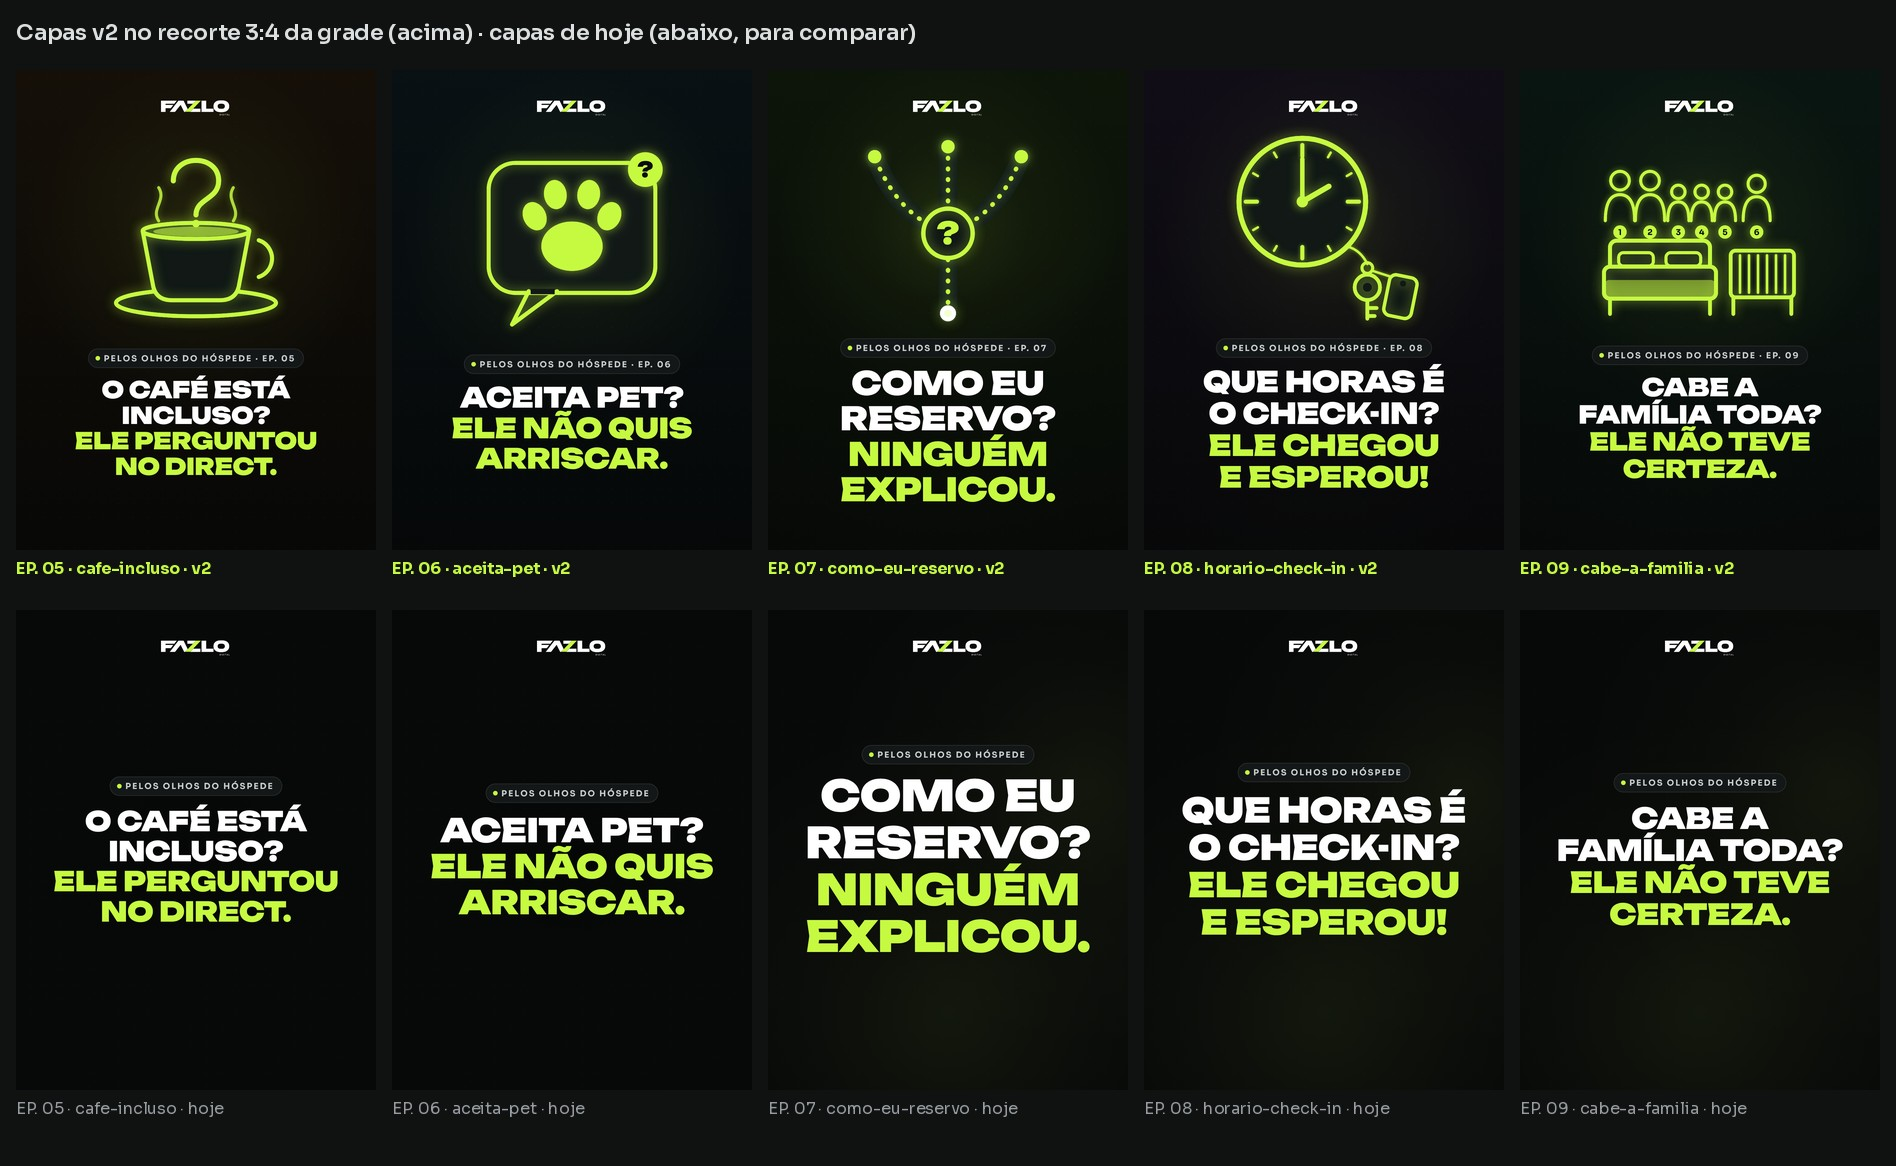
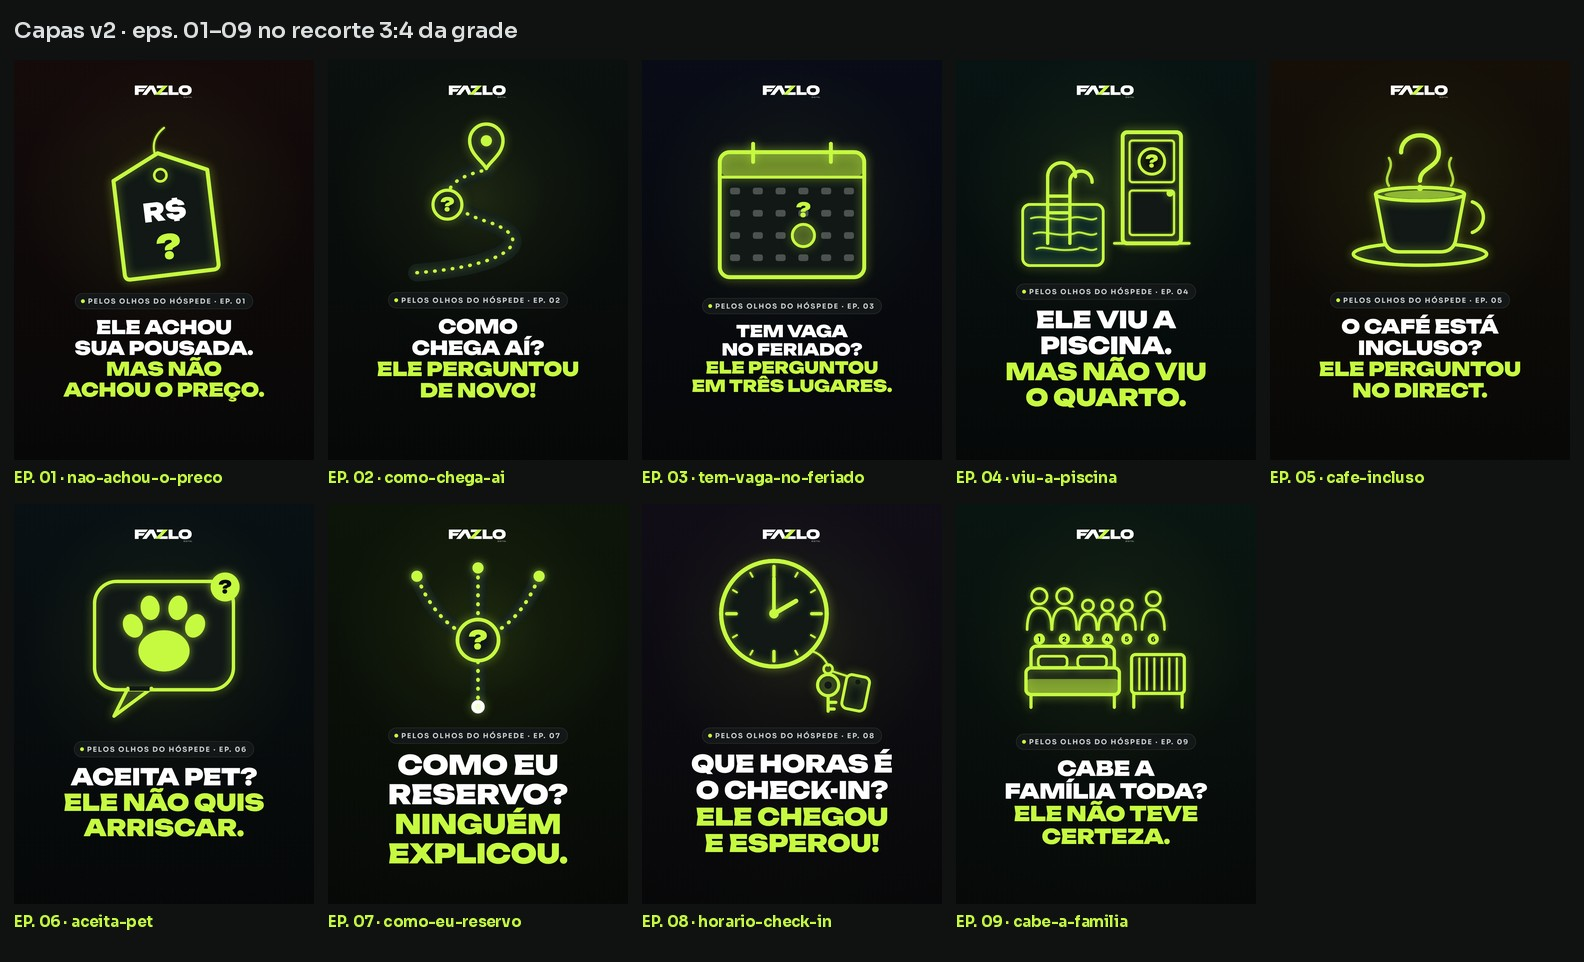
Capas v2 dos eps. 1 a 4 (preço, estrada, calendário, piscina) e folha com os 9 episódios
Claude-Session: https://claude.ai/code/session_016SrUqcRstJhcFcnU2LrZ3G

diff --git a/series/pelos-olhos-do-hospede/motor.js b/series/pelos-olhos-do-hospede/motor.js
@@ -721,6 +721,42 @@
       neon(c, P((q) => { q.moveTo(444, 412); q.lineTo(500, 430); }), { fill: null, lw: 7, glow: 10 });
       c.save(); c.translate(530, 486); c.rotate(0.2); neon(c, caixa(-42, -58, 84, 124, 20), { lw: 10 }); cheio(c, elipse(0, -36, 9, 9), '#111816'); c.restore();
     },
+    preco(c) {                                       // etiqueta de preço pendurada, com "R$ ?" no lugar do valor
+      neon(c, P((q) => { q.moveTo(300, 20); q.quadraticCurveTo(250, 60, 268, 118); }), { fill: null, lw: 7, glow: 10 });
+      c.save(); c.translate(300, 300); c.rotate(-0.12);
+      neon(c, P((q) => { q.moveTo(0, -190); q.lineTo(170, -110); q.lineTo(170, 230); q.quadraticCurveTo(170, 250, 150, 250); q.lineTo(-150, 250); q.quadraticCurveTo(-170, 250, -170, 230); q.lineTo(-170, -110); q.closePath(); }), { lw: 14 });
+      neon(c, elipse(0, -110, 22, 22), { fill: '#050606', lw: 9 });
+      letra(c, 'R$', 0, 20, 92, C.white); letra(c, '?', 0, 150, 120, C.lime);
+      c.restore();
+    },
+    estrada(c) {                                     // pino no fim de uma estrada sinuosa, com um "?" no caminho
+      const via = P((q) => { q.moveTo(80, 545); q.bezierCurveTo(420, 520, 520, 420, 330, 360); q.bezierCurveTo(140, 300, 160, 210, 330, 175); });
+      c.save(); c.lineWidth = 64; c.lineCap = 'round'; c.strokeStyle = '#16211C'; c.stroke(via); c.restore();
+      neon(c, via, { fill: null, lw: 12, dash: [2, 30], glow: 22 });
+      neon(c, P((q) => { q.moveTo(330, 170); q.bezierCurveTo(318, 145, 270, 118, 270, 70); q.arc(330, 70, 60, Math.PI, 0); q.bezierCurveTo(390, 118, 342, 145, 330, 170); q.closePath(); }), { lw: 12 });
+      cheio(c, elipse(330, 70, 20, 20));
+      neon(c, elipse(190, 300, 52, 52), { lw: 11 }); letra(c, '?', 190, 300, 68, C.lime);
+    },
+    calendario(c) {                                  // calendário com uma data marcada e um "?" em cima dela
+      neon(c, caixa(40, 90, 520, 450, 36), { lw: 14 });
+      cheio(c, caixa(40, 90, 520, 90, 36), rgba(C.lime, 0.25)); neon(c, P((q) => { q.moveTo(40, 180); q.lineTo(560, 180); }), { fill: null, lw: 10 });
+      neon(c, P((q) => { q.moveTo(160, 60); q.lineTo(160, 125); q.moveTo(440, 60); q.lineTo(440, 125); }), { fill: null, lw: 14 });
+      for (let r = 0; r < 4; r++) for (let k = 0; k < 6; k++) {
+        const x = 95 + k * 82, y = 230 + r * 80;
+        if (r === 2 && k === 3) { neon(c, elipse(x, y, 40, 40), { fill: rgba(C.lime, 0.3), lw: 10 }); letra(c, '?', x, y - 92, 72, C.lime); }
+        else { c.save(); c.fillStyle = rgba(C.white, 0.25); c.beginPath(); c.roundRect(x - 18, y - 12, 36, 24, 8); c.fill(); c.restore(); }
+      }
+    },
+    piscina(c) {                                     // escada de piscina com água à esquerda e uma porta fechada com "?" à direita
+      neon(c, caixa(0, 330, 290, 220, 26), { fill: '#0F2A26', lw: 10 });
+      for (let k = 0; k < 3; k++) neon(c, P((q) => { q.moveTo(30 + k * 10, 380 + k * 55); q.bezierCurveTo(80, 365 + k * 55, 120, 395 + k * 55, 170 + k * 15, 380 + k * 55); q.bezierCurveTo(210, 365 + k * 55, 240, 395 + k * 55, 265, 380 + k * 55); }), { fill: null, lw: 7, a: 0.7, glow: 14 });
+      neon(c, P((q) => { q.moveTo(90, 470); q.lineTo(90, 230); q.arc(140, 230, 50, Math.PI, 0); q.moveTo(170, 470); q.lineTo(170, 250); q.arc(210, 250, 40, Math.PI, 0); q.moveTo(90, 300); q.lineTo(170, 300); q.moveTo(90, 360); q.lineTo(170, 360); }), { fill: null, lw: 12 });
+      neon(c, caixa(360, 70, 210, 400, 16), { lw: 14 });
+      neon(c, caixa(385, 100, 160, 150, 10), { fill: null, lw: 7, glow: 10 }); neon(c, caixa(385, 280, 160, 160, 10), { fill: null, lw: 7, glow: 10 });
+      cheio(c, elipse(530, 290, 12, 12));
+      neon(c, elipse(465, 175, 46, 46), { fill: '#050606', lw: 10 }); letra(c, '?', 465, 175, 62, C.lime);
+      neon(c, P((q) => { q.moveTo(330, 470); q.lineTo(600, 470); }), { fill: null, lw: 9, glow: 10 });
+    },
     familia(c) {                                     // cama de casal e berço lado a lado, com pessoas contando
       neon(c, caixa(30, 300, 300, 90, 20));
       neon(c, caixa(12, 378, 336, 96, 18));
